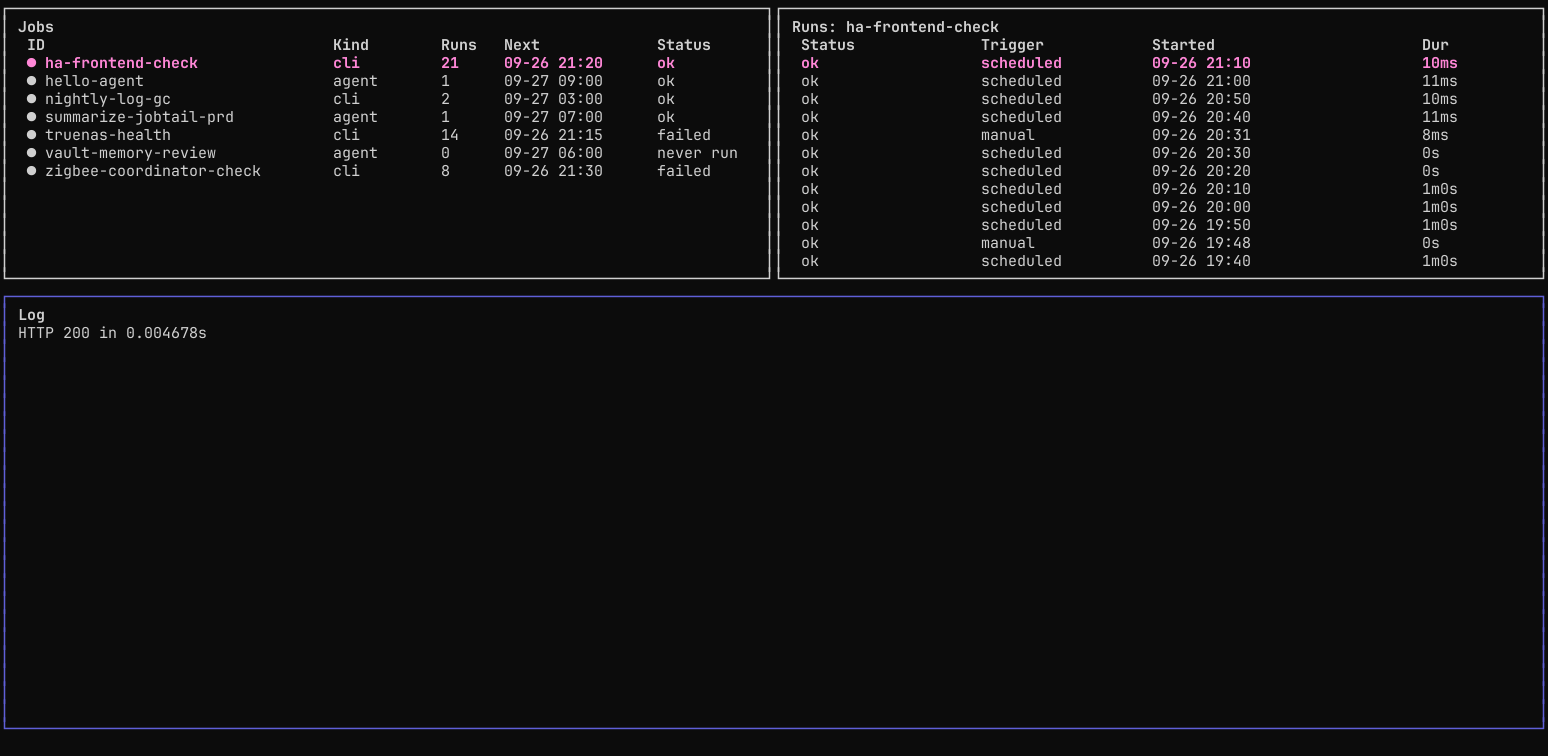
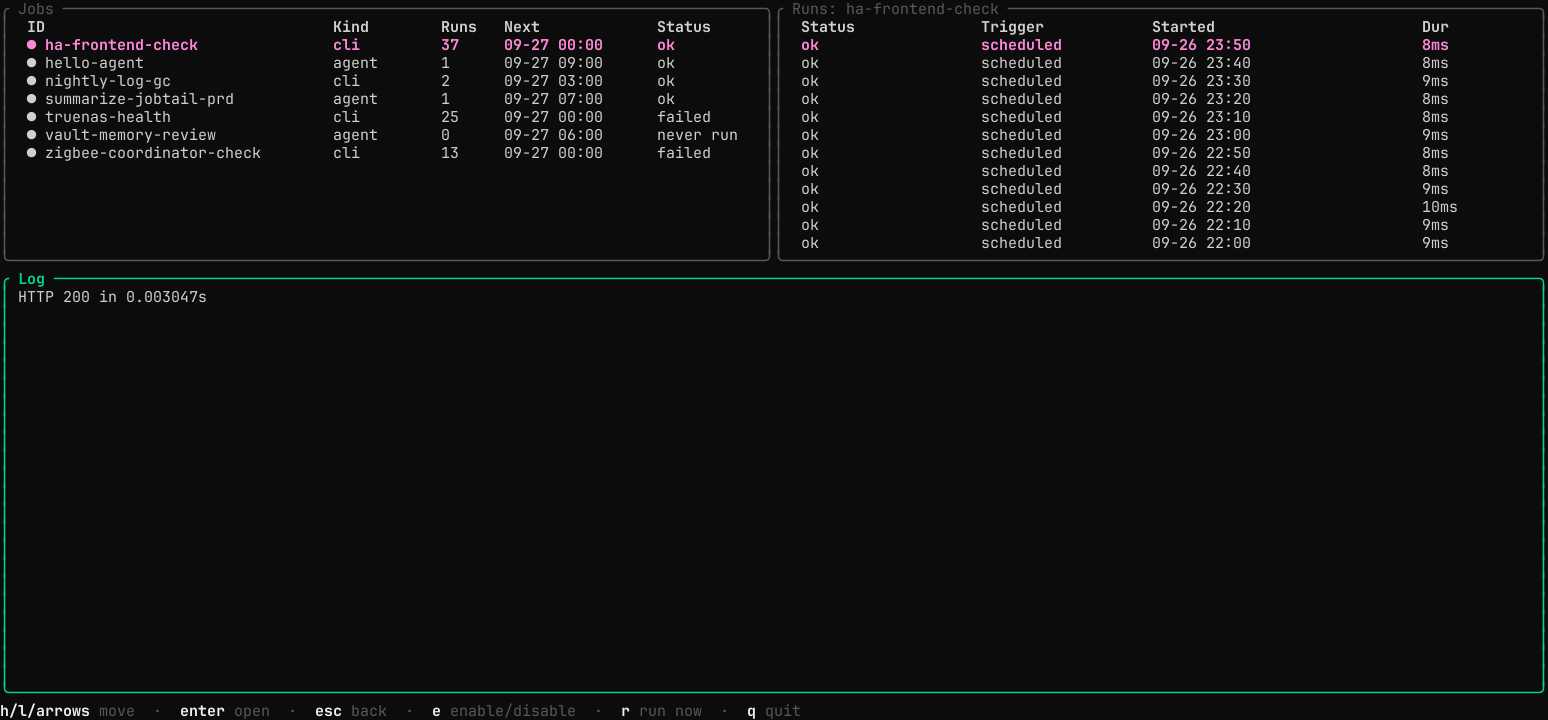
Restyle the TUI to look more like btop: rounded borders, per-pane accent colors
Rounded panel borders, a distinct accent color per pane (blue/violet/green,
echoing btop's own cpu/mem/net panels), pane titles embedded in the top
border rule instead of a separate content row, and a key-highlighted help
bar — all confirmed safe against bubbles/table's non-ANSI-aware cell
truncation (verified directly: it corrupts colored text) by only touching
the outer frame lipgloss draws, never table cell content.

Screenshot regenerated to match.

Changed region(s): [[0.0, 0.0, 1.0, 1.0], [0.0, 0.0, 0.186, 0.2444], [0.2171, 0.0, 0.2481, 0.2444]]

diff --git a/internal/tui/tui.go b/internal/tui/tui.go
@@ -7,6 +7,8 @@ import (
 	"context"
 	"fmt"
 	"os"
+	"regexp"
+	"strings"
 	"time"
 
 	"github.com/charmbracelet/bubbles/table"
@@ -35,15 +37,22 @@ const (
 // resolved tick — see internal/tui/tui_test.go's init().
 var refreshInterval = time.Second
 
+// Per-pane accent colors (btop-style: each panel gets its own hue rather
+// than one generic "focused" blue) — picked to echo btop's own cpu/mem/net
+// panel colors (violet/green/blue) since that's the specific look this was
+// modeled on.
 var (
-	borderStyle        = lipgloss.NewStyle().Border(lipgloss.NormalBorder()).Padding(0, 1)
-	focusedBorderStyle = borderStyle.BorderForeground(lipgloss.Color("62"))
-	titleStyle         = lipgloss.NewStyle().Bold(true)
-	helpStyle          = lipgloss.NewStyle().Foreground(lipgloss.Color("240"))
-	statusOK           = lipgloss.NewStyle().Foreground(lipgloss.Color("2"))
-	statusFailed       = lipgloss.NewStyle().Foreground(lipgloss.Color("1"))
-	statusRunning      = lipgloss.NewStyle().Foreground(lipgloss.Color("3"))
-	statusNever        = lipgloss.NewStyle().Foreground(lipgloss.Color("240"))
+	accentJobs    = lipgloss.Color("39")  // blue
+	accentRuns    = lipgloss.Color("135") // violet
+	accentLog     = lipgloss.Color("42")  // green
+	dimPaneColor  = lipgloss.Color("240") // unfocused border/title — same muted gray as before
+	roundedPane   = lipgloss.NewStyle().Border(lipgloss.RoundedBorder()).Padding(0, 1)
+	helpStyle     = lipgloss.NewStyle().Foreground(lipgloss.Color("240"))
+	helpKeyStyle  = lipgloss.NewStyle().Foreground(lipgloss.Color("255")).Bold(true)
+	statusOK      = lipgloss.NewStyle().Foreground(lipgloss.Color("2"))
+	statusFailed  = lipgloss.NewStyle().Foreground(lipgloss.Color("1"))
+	statusRunning = lipgloss.NewStyle().Foreground(lipgloss.Color("3"))
+	statusNever   = lipgloss.NewStyle().Foreground(lipgloss.Color("240"))
 )
 
 type model struct {
@@ -316,9 +325,10 @@ func (m *model) layout() {
 	}
 	m.topBoxHeight = topBoxOuter
 
-	// Each box's own border(2)+title(1) = 3 lines of chrome above the
-	// table/viewport content proper.
-	const titleAndBorderChrome = 3
+	// Each box's own border(2) = 2 lines of chrome above the table/
+	// viewport content proper — the title no longer costs its own content
+	// row, since it's embedded in the top border line itself (renderPane).
+	const titleAndBorderChrome = 2
 	tableHeight := topBoxOuter - titleAndBorderChrome
 	if tableHeight < 3 {
 		tableHeight = 3
@@ -717,24 +727,105 @@ func (m model) View() string {
 		return "loading..."
 	}
 
-	jobsBox := paneStyle(m.focus == focusJobs).Render(
-		titleStyle.Render("Jobs") + "\n" + m.jobsTable.View())
-	runsBox := paneStyle(m.focus == focusRuns).Render(
-		titleStyle.Render("Runs: "+m.selectedJobID()) + "\n" + m.runsTable.View())
-	logBox := paneStyle(m.focus == focusLog).Render(
-		titleStyle.Render("Log") + "\n" + m.logVP.View())
+	jobsBox := renderPane("Jobs", accentJobs, m.focus == focusJobs, m.jobsTable.View())
+	runsBox := renderPane("Runs: "+m.selectedJobID(), accentRuns, m.focus == focusRuns, m.runsTable.View())
+	logBox := renderPane("Log", accentLog, m.focus == focusLog, m.logVP.View())
 
 	top := lipgloss.JoinHorizontal(lipgloss.Top, jobsBox, runsBox)
 	body := lipgloss.JoinVertical(lipgloss.Left, top, logBox)
-	help := helpStyle.Render("h/l or arrows/enter/esc: move · e: enable/disable · r: run now · q: quit  " + m.statusMsg)
+	help := renderHelpBar(m.statusMsg)
 	return body + "\n" + help
 }
 
-func paneStyle(focused bool) lipgloss.Style {
+// renderPane draws one pane's box with a rounded, per-pane-accented border
+// (dimmed when unfocused, full accent + bold title when focused — btop
+// itself has no focus concept, so this is jobtail's own adaptation to keep
+// the existing focus affordance while adopting btop's per-panel color
+// identity) and its title embedded in the top border rule rather than as
+// a separate content row (see embedTitle).
+func renderPane(title string, accent lipgloss.Color, focused bool, content string) string {
+	borderColor := dimPaneColor
 	if focused {
-		return focusedBorderStyle
+		borderColor = accent
 	}
-	return borderStyle
+	box := roundedPane.BorderForeground(borderColor).Render(content)
+
+	labelStyle := lipgloss.NewStyle().Foreground(borderColor)
+	if focused {
+		labelStyle = labelStyle.Bold(true)
+	}
+	return embedTitle(box, title, labelStyle)
+}
+
+// borderLineRE matches a top border line lipgloss rendered with a single
+// BorderForeground color: one opening SGR sequence, the border rune run,
+// one closing reset. Verified directly against lipgloss v1.1.0's actual
+// output (never per-character escapes) before relying on this — see the
+// embedTitle comment.
+var borderLineRE = regexp.MustCompile(`^(\x1b\[[0-9;]*m)(.*)(\x1b\[0m)$`)
+
+// embedTitle splices a title into a rendered box's already-drawn top
+// border line — btop's signature look, a title inline in the border rule
+// itself rather than a separate content row above it — since lipgloss has
+// no built-in support for this.
+//
+// This is safe specifically *because* BorderForeground wraps the whole
+// border line in one escape/reset pair, never per-rune (confirmed via a
+// real pty capture of lipgloss's actual bytes, not assumed): the runes
+// between that opening escape and the closing reset are plain border
+// characters with no embedded codes, so slicing them by rune index can't
+// corrupt anything. The label's own style ends with its own reset, which
+// clears ALL active SGR state, not just its own — so the opening border
+// color has to be re-emitted after the label, not assumed to still be
+// active, or the rest of the border would render in the default color.
+//
+// If jobtail ever runs with color disabled, the border line carries no
+// escape codes at all and borderLineRE simply won't match; the whole line
+// is then treated as plain body text, so the title still gets spliced in,
+// just uncolored.
+func embedTitle(box, title string, labelStyle lipgloss.Style) string {
+	lines := strings.SplitN(box, "\n", 2)
+	top := lines[0]
+
+	prefix, body, suffix := "", top, ""
+	if m := borderLineRE.FindStringSubmatch(top); m != nil {
+		prefix, body, suffix = m[1], m[2], m[3]
+	}
+
+	runes := []rune(body)
+	label := " " + title + " "
+	labelRunes := []rune(label)
+	const start = 1
+	end := start + len(labelRunes)
+	if start >= len(runes) || end >= len(runes) {
+		return box // too narrow for a title: leave the plain border as-is
+	}
+
+	newTop := prefix + string(runes[:start]) + labelStyle.Render(label) + prefix + string(runes[end:]) + suffix
+	if len(lines) == 1 {
+		return newTop
+	}
+	return newTop + "\n" + lines[1]
+}
+
+// renderHelpBar is the bottom key-hint bar, styled like btop's own footer:
+// each key highlighted, its description dimmed.
+func renderHelpBar(statusMsg string) string {
+	key := func(k, desc string) string {
+		return helpKeyStyle.Render(k) + helpStyle.Render(" "+desc)
+	}
+	bar := strings.Join([]string{
+		key("h/l/arrows", "move"),
+		key("enter", "open"),
+		key("esc", "back"),
+		key("e", "enable/disable"),
+		key("r", "run now"),
+		key("q", "quit"),
+	}, helpStyle.Render("  ·  "))
+	if statusMsg != "" {
+		bar += helpStyle.Render("   ") + statusMsg
+	}
+	return bar
 }
 
 // renderLog renders a run's captured output for the log pane: agent

diff --git a/internal/tui/tui_test.go b/internal/tui/tui_test.go
@@ -286,10 +286,14 @@ func TestMouseBoundariesMatchActualRenderedBorders(t *testing.T) {
 	if len(lines) < 2 {
 		t.Fatalf("view has too few lines: %d", len(lines))
 	}
-	titleRow := []rune(ansiRE.ReplaceAllString(lines[1], "")) // "Jobs ... Runs: ..." (log is a separate row now)
+	// Titles are embedded in each box's own top border line (row 0), not a
+	// separate content row, so row 1 (an interior content row) still shows
+	// the same left/mid/right vertical border characters a title row used
+	// to — pane borders run down every row of the box, title or not.
+	contentRow := []rune(ansiRE.ReplaceAllString(lines[1], ""))
 
 	borderCols := []int{}
-	for i, r := range titleRow {
+	for i, r := range contentRow {
 		if r == '│' {
 			borderCols = append(borderCols, i)
 		}
@@ -299,25 +303,25 @@ func TestMouseBoundariesMatchActualRenderedBorders(t *testing.T) {
 	// border, and runs' own right edge.
 	if len(borderCols) != 4 {
 		t.Fatalf("expected 4 vertical border characters on the top row (left edge + adjacent pair + right edge), found %d: %q",
-			len(borderCols), string(titleRow))
+			len(borderCols), string(contentRow))
 	}
 	if d := abs(borderCols[1] - m.jobsBoxWidth); d > 1 {
 		t.Fatalf("jobs|runs border rendered at column %d, but jobsBoxWidth=%d (mouse clicks there would hit the wrong pane)",
 			borderCols[1], m.jobsBoxWidth)
 	}
 
-	// Row topBoxHeight is the log box's own top border; topBoxHeight+1 is
-	// its title line (same one-row offset the top boxes have at line 1).
-	if m.topBoxHeight+1 >= len(lines) {
+	// Row topBoxHeight is the log box's own top border, with its title
+	// embedded directly in that same rule (renderPane/embedTitle) — no
+	// separate title row beneath it anymore.
+	if m.topBoxHeight >= len(lines) {
 		t.Fatalf("topBoxHeight=%d is past the end of the rendered view (%d lines)", m.topBoxHeight, len(lines))
 	}
 	logBorderRow := ansiRE.ReplaceAllString(lines[m.topBoxHeight], "")
-	if !strings.ContainsAny(logBorderRow, "┌┬┐─") {
-		t.Fatalf("expected the log pane's top border at row topBoxHeight=%d, got: %q", m.topBoxHeight, logBorderRow)
+	if !strings.ContainsAny(logBorderRow, "╭╮╰╯─") {
+		t.Fatalf("expected the log pane's rounded top border at row topBoxHeight=%d, got: %q", m.topBoxHeight, logBorderRow)
 	}
-	logTitleRow := ansiRE.ReplaceAllString(lines[m.topBoxHeight+1], "")
-	if !strings.Contains(logTitleRow, "Log") {
-		t.Fatalf("expected the log pane's title at row topBoxHeight+1=%d, got: %q", m.topBoxHeight+1, logTitleRow)
+	if !strings.Contains(logBorderRow, "Log") {
+		t.Fatalf("expected the log pane's title embedded in its top border at row topBoxHeight=%d, got: %q", m.topBoxHeight, logBorderRow)
 	}
 }
 
